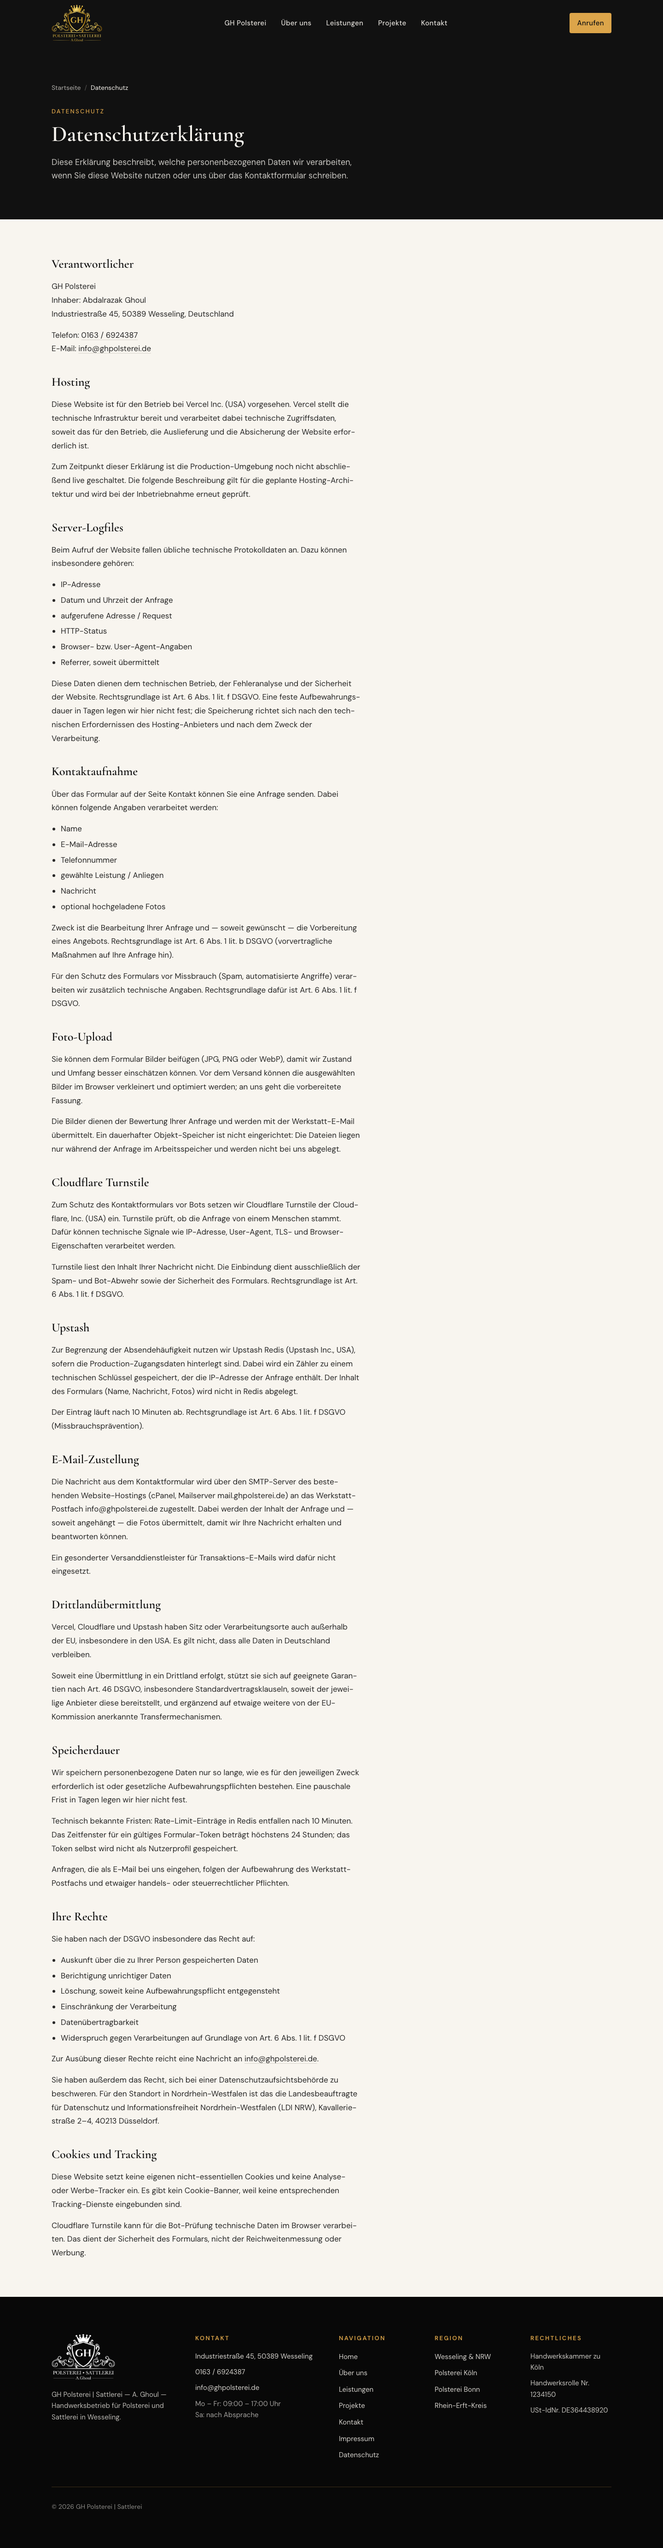
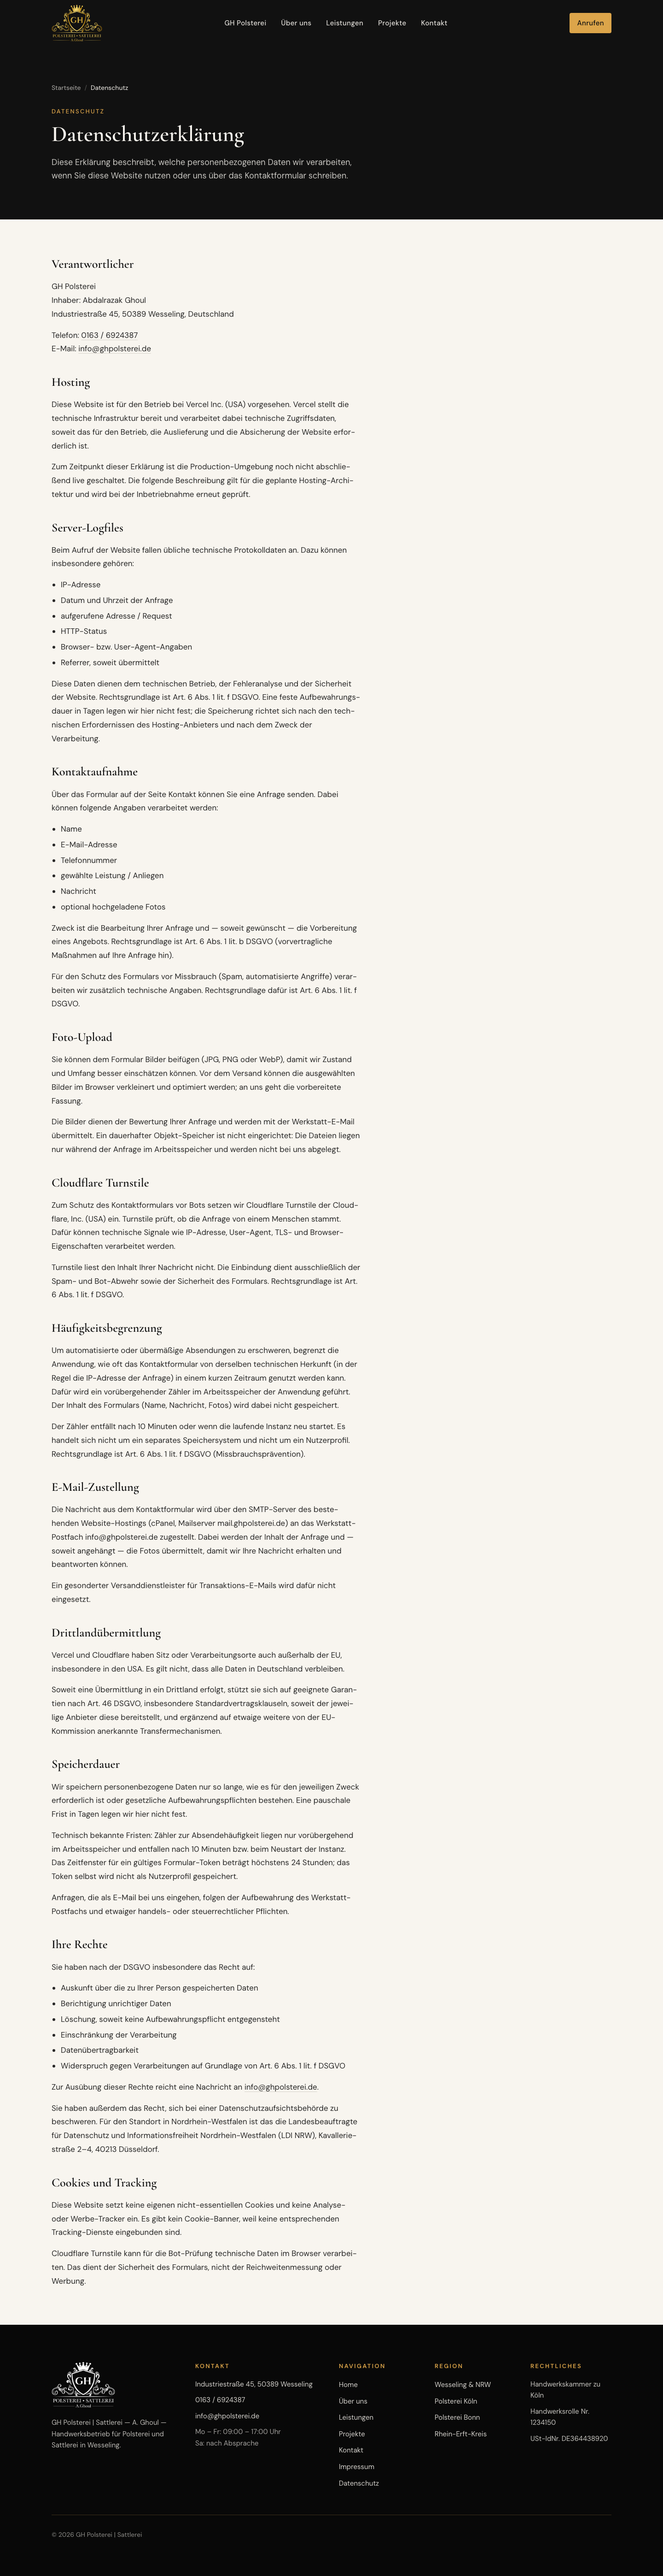
Remove Upstash dependency from contact rate limiting

diff --git a/src/app/datenschutz/page.tsx b/src/app/datenschutz/page.tsx
@@ -144,17 +144,20 @@ export default function DatenschutzPage() {
         </p>
       </LegalSection>
 
-      <LegalSection heading="Upstash">
+      <LegalSection heading="Häufigkeitsbegrenzung">
         <p>
-          Zur Begrenzung der Absendehäufigkeit nutzen wir Upstash Redis (Upstash
-          Inc., USA), sofern die Production-Zugangsdaten hinterlegt sind. Dabei
-          wird ein Zähler zu einem technischen Schlüssel gespeichert, der die
-          IP-Adresse der Anfrage enthält. Der Inhalt des Formulars (Name,
-          Nachricht, Fotos) wird nicht in Redis abgelegt.
+          Um automatisierte oder übermäßige Absendungen zu erschweren, begrenzt
+          die Anwendung, wie oft das Kontaktformular von derselben technischen
+          Herkunft (in der Regel die IP-Adresse der Anfrage) in einem kurzen
+          Zeitraum genutzt werden kann. Dafür wird ein vorübergehender Zähler im
+          Arbeitsspeicher der Anwendung geführt. Der Inhalt des Formulars (Name,
+          Nachricht, Fotos) wird dabei nicht gespeichert.
         </p>
         <p>
-          Der Eintrag läuft nach {rateLimitMinutes} Minuten ab. Rechtsgrundlage
-          ist Art. 6 Abs. 1 lit. f DSGVO (Missbrauchsprävention).
+          Der Zähler entfällt nach {rateLimitMinutes} Minuten oder wenn die
+          laufende Instanz neu startet. Es handelt sich nicht um ein separates
+          Speichersystem und nicht um ein Nutzerprofil. Rechtsgrundlage ist
+          Art. 6 Abs. 1 lit. f DSGVO (Missbrauchsprävention).
         </p>
       </LegalSection>
 
@@ -174,7 +177,7 @@ export default function DatenschutzPage() {
 
       <LegalSection heading="Drittlandübermittlung">
         <p>
-          Vercel, Cloudflare und Upstash haben Sitz oder Verarbeitungsorte auch
+          Vercel und Cloudflare haben Sitz oder Verarbeitungsorte auch
           außerhalb der EU, insbesondere in den USA. Es gilt nicht, dass alle
           Daten in Deutschland verbleiben.
         </p>
@@ -194,10 +197,12 @@ export default function DatenschutzPage() {
           bestehen. Eine pauschale Frist in Tagen legen wir hier nicht fest.
         </p>
         <p>
-          Technisch bekannte Fristen: Rate-Limit-Einträge in Redis entfallen nach{" "}
-          {rateLimitMinutes} Minuten. Das Zeitfenster für ein gültiges
-          Formular-Token beträgt höchstens {formTokenHours} Stunden; das Token
-          selbst wird nicht als Nutzerprofil gespeichert.
+          Technisch bekannte Fristen: Zähler zur Absendehäufigkeit liegen nur
+          vorübergehend im Arbeitsspeicher und entfallen nach{" "}
+          {rateLimitMinutes} Minuten bzw. beim Neustart der Instanz. Das
+          Zeitfenster für ein gültiges Formular-Token beträgt höchstens{" "}
+          {formTokenHours} Stunden; das Token selbst wird nicht als Nutzerprofil
+          gespeichert.
         </p>
         <p>
           Anfragen, die als E-Mail bei uns eingehen, folgen der Aufbewahrung des

diff --git a/src/lib/contact/rate-limit.ts b/src/lib/contact/rate-limit.ts
@@ -1,9 +1,9 @@
 import { CONTACT_LIMITS } from "@/lib/contact/constants";
-import { getUpstashConfig, isHostedDeploy } from "@/lib/contact/env";
+import { isHostedDeploy } from "@/lib/contact/env";
 
 type RateLimitResult = {
   allowed: boolean;
-  backend: "upstash" | "memory" | "unavailable";
+  backend: "memory";
 };
 
 type MemoryEntry = {
@@ -23,37 +23,6 @@ function maxAttempts(): number {
   return isHostedDeploy() ? CONTACT_LIMITS.rateLimitMax : CONTACT_LIMITS.rateLimitMaxDev;
 }
 
-async function upstashIncr(
-  url: string,
-  token: string,
-  key: string,
-  windowSec: number,
-): Promise<number | null> {
-  const response = await fetch(`${url}/pipeline`, {
-    method: "POST",
-    headers: {
-      Authorization: `Bearer ${token}`,
-      "Content-Type": "application/json",
-    },
-    body: JSON.stringify([["INCR", key]]),
-  });
-
-  if (!response.ok) return null;
-
-  const payload = (await response.json()) as { result?: unknown }[];
-  const incr = payload[0]?.result;
-  if (typeof incr !== "number") return null;
-
-  if (incr === 1) {
-    await fetch(`${url}/expire/${encodeURIComponent(key)}/${windowSec}`, {
-      method: "POST",
-      headers: { Authorization: `Bearer ${token}` },
-    });
-  }
-
-  return incr;
-}
-
 function memoryIncr(key: string, windowMs: number): number {
   const now = Date.now();
   pruneMemory(now);
@@ -66,37 +35,10 @@ function memoryIncr(key: string, windowMs: number): number {
   return existing.count;
 }
 
-export async function checkContactRateLimit(ip: string): Promise<RateLimitResult> {
+export function checkContactRateLimit(ip: string): RateLimitResult {
   const key = `contact-rl:${ip || "unknown"}`;
   const limit = maxAttempts();
   const windowMs = CONTACT_LIMITS.rateLimitWindowMs;
-  const upstash = getUpstashConfig();
-
-  if (upstash) {
-    try {
-      const count = await upstashIncr(
-        upstash.url,
-        upstash.token,
-        key,
-        Math.ceil(windowMs / 1000),
-      );
-      if (count === null) {
-        if (isHostedDeploy()) return { allowed: false, backend: "unavailable" };
-        const fallback = memoryIncr(key, windowMs);
-        return { allowed: fallback <= limit, backend: "memory" };
-      }
-      return { allowed: count <= limit, backend: "upstash" };
-    } catch {
-      if (isHostedDeploy()) return { allowed: false, backend: "unavailable" };
-      const fallback = memoryIncr(key, windowMs);
-      return { allowed: fallback <= limit, backend: "memory" };
-    }
-  }
-
-  if (isHostedDeploy()) {
-    return { allowed: false, backend: "unavailable" };
-  }
-
   const count = memoryIncr(key, windowMs);
   return { allowed: count <= limit, backend: "memory" };
 }

diff --git a/src/lib/contact/env.ts b/src/lib/contact/env.ts
@@ -21,13 +21,6 @@ export function getTurnstileSecret(): string | undefined {
   return key || undefined;
 }
 
-export function getUpstashConfig(): { url: string; token: string } | undefined {
-  const url = process.env.UPSTASH_REDIS_REST_URL?.trim();
-  const token = process.env.UPSTASH_REDIS_REST_TOKEN?.trim();
-  if (!url || !token) return undefined;
-  return { url, token };
-}
-
 export function getContactToEmail(fallback: string): string {
   return process.env.CONTACT_TO_EMAIL?.trim() || fallback;
 }

diff --git a/src/lib/contact/process.ts b/src/lib/contact/process.ts
@@ -78,11 +78,7 @@ export async function processContactForm(
   }
 
   const ip = getRequestIp(request);
-  const rate = await checkContactRateLimit(ip);
-  if (rate.backend === "unavailable") {
-    log503("RATE_LIMIT_UNAVAILABLE");
-    return { status: 503, body: unavailableFail() };
-  }
+  const rate = checkContactRateLimit(ip);
   if (!rate.allowed) {
     return { status: 429, body: rateLimitFail() };
   }

diff --git a/docs/contact-form-security.md b/docs/contact-form-security.md
@@ -26,7 +26,7 @@ rendered as HTML (plain-text mail only; header breaks stripped).
 | --- | --- | --- |
 | Honeypot `company_website` | Hidden from people. If filled, mail is **not** sent. | HTTP 200 `{ ok: true }` (silent) |
 | Time trap | Token issued at render. Reject if submitted in under 2.5s or older than 24h. HMAC-signed so clients cannot forge a delay. | Generic error |
-| Rate limit | IP-based. Hosted: 5 / 10 minutes via Upstash Redis. Local/dev: 30 / 10 minutes in memory. | Generic error (HTTP 429) |
+| Rate limit | IP-based. Hosted: 5 / 10 minutes. Local/dev: 30 / 10 minutes. In-process memory (`contact-rl:${ip}`). | Generic error (HTTP 429) |
 | Cloudflare Turnstile | `interaction-only` widget. Token verified at `https://challenges.cloudflare.com/turnstile/v0/siteverify`. Secret never sent to the client. | Generic error |
 | Payload limits | `Content-Length` over 22 MB rejected. Message max 4000 characters. | Generic / validation error |
 | Origin check | Optional `Origin` must match the site, localhost, or `VERCEL_URL`. | Generic error |
@@ -41,9 +41,9 @@ Security rejections do **not** name the layer that fired.
 
 ### Rate limit env behaviour
 
-- `UPSTASH_REDIS_REST_URL` + `UPSTASH_REDIS_REST_TOKEN` present: Redis INCR + EXPIRE.
-- Missing in local/dev: in-memory `Map` (single process only — not production-safe).
-- Missing on Vercel: fail closed. Memory is never treated as hosted production security.
+- Always in-process memory. No Redis or Upstash.
+- Hosted production uses the stricter 5 / 10 minutes cap. Local/dev uses 30 / 10 minutes.
+- Counters are per instance and reset when the instance restarts. They are not a shared store.
 
 ## Mail provider
 
@@ -111,8 +111,6 @@ SMTP_PASSWORD
 CONTACT_TO_EMAIL
 CONTACT_FROM_EMAIL
 CONTACT_FORM_SECRET
-UPSTASH_REDIS_REST_URL
-UPSTASH_REDIS_REST_TOKEN
 ```
 
 Optional: `CONTACT_ALLOWED_ORIGIN` if the public URL is not `https://ghpolsterei.de`.
@@ -121,12 +119,11 @@ Optional: `CONTACT_ALLOWED_ORIGIN` if the public URL is not `https://ghpolsterei
 
 - [ ] Cloudflare Turnstile widget created; site key + secret set; no classic CAPTCHA theme.
 - [ ] `CONTACT_FORM_SECRET` is a long random value (not the dev fallback).
-- [ ] Upstash Redis REST URL + token set (rate limit will not start without them).
 - [ ] SMTP host is `mail.ghpolsterei.de`; port 465 with `SMTP_SECURE=true`.
 - [ ] `CONTACT_FROM_EMAIL` and `CONTACT_TO_EMAIL` are the workshop mailbox.
 - [ ] `CONTACT_TO_EMAIL` delivers to `info@ghpolsterei.de` (or the inbox you choose).
 - [ ] Submit a real test from a phone and from desktop (including several photos).
 - [ ] Confirm honeypot/time-trap/Turnstile failures do not send mail.
 - [ ] `/datenschutz` page exists before launch (the form already links there).
-- [ ] Do not deploy with missing Turnstile/Redis/SMTP and expect the form
+- [ ] Do not deploy with missing Turnstile/SMTP and expect the form
       to “just work” — hosted deploys fail closed on purpose.

diff --git a/docs/privacy-tech-audit.md b/docs/privacy-tech-audit.md
@@ -36,12 +36,12 @@ Documented for privacy copy; not trackers:
 | Processor | Role in code | Data actually sent |
 | --- | --- | --- |
 | **Cloudflare Turnstile** | `siteverify` with token and optional `remoteip`. | Challenge token, IP if known. Not the form message. |
-| **Upstash Redis** | Rate limit key `contact-rl:${ip}` with INCR + EXPIRE. TTL **10 minutes**. | IP (or `"unknown"`) and a counter. Form body is not stored. |
+| **Application memory** | Rate limit key `contact-rl:${ip}` with an in-process counter. Window **10 minutes**. | IP (or `"unknown"`) and a counter. Form body is not stored. Lost on instance restart. |
 | **cPanel SMTP** | Nodemailer to `SMTP_HOST` when host, port, secure flag, user, password, from- and to-address are set. | Name, email, phone, service, message, timestamp; processed photos attached (client-optimized, ≤ 3.5 MB total). |
 | **Vercel** | Planned production host. Request logs / platform telemetry as provided by Vercel. | Typical HTTP metadata (IP, URL, user-agent, timestamp). Retention is not hard-coded in this repo. |
 | **Workshop mailbox** | Default `CONTACT_TO_EMAIL` is `info@ghpolsterei.de` on the cPanel mail host. | Mailbox of the workshop after SMTP delivery. |
 
-Local/dev without Upstash/SMTP/Turnstile keys uses in-memory rate limiting, console mail, and Turnstile bypass. Hosted Vercel production fails closed without those credentials.
+Local/dev without SMTP/Turnstile keys uses console mail and Turnstile bypass. Hosted Vercel production fails closed without those credentials. Rate limiting uses in-process memory in all environments.
 
 ## Cookies
 

diff --git a/docs/legal-review-required.md b/docs/legal-review-required.md
@@ -13,7 +13,7 @@ This list is only what the business owner or a legal advisor should confirm befo
 
 - [ ] Endgültige juristische Freigabe der Datenschutzerklärung.
 - [ ] Hosting: Production-Ziel ist **Vercel**. Nach dem ersten Live-Deploy Region, Account und tatsächliche Log-Praxis erneut gegen den Text prüfen.
-- [ ] **Auftragsverarbeitung / DPA** in den Konten von Vercel, Cloudflare und Upstash abschließen bzw. bestätigen.
+- [ ] **Auftragsverarbeitung / DPA** in den Konten von Vercel und Cloudflare abschließen bzw. bestätigen.
 - [ ] Standardvertragsklauseln / EU-US-Transfer der jeweiligen Anbieter im Account nachweisen.
 - [ ] Postfach ist `info@ghpolsterei.de` (cPanel-Hosting) — andernfalls Empfänger und Datenschutztext anpassen.
 - [ ] Speicherung von Anfrage-E-Mails und etwaigen Anhängen: internes Verfahren festlegen (keine pauschalen 30/90/365-Tage-Fristen im Code).
@@ -22,7 +22,6 @@ This list is only what the business owner or a legal advisor should confirm befo
 ## Technik, die die Texte voraussetzen
 
 - [ ] Cloudflare Turnstile Site Key + Secret in Production.
-- [ ] Upstash Redis REST nur für Rate Limiting (kein Speichern von Formulardaten).
 - [ ] SMTP (`mail.ghpolsterei.de`, Port 465) und `CONTACT_FROM_EMAIL` / `CONTACT_TO_EMAIL` in Production gesetzt.
 - [ ] Kein zusätzlicher Tracker, kein Cookie-Banner, solange der Stand in `docs/privacy-tech-audit.md` gilt.
 

diff --git a/docs/technical-seo-final.md b/docs/technical-seo-final.md
@@ -98,6 +98,6 @@ Applied in `next.config.ts` to `/:path*`:
 ## Remaining production requirements
 
 - Set Vercel env vars from `.env.example` / `docs/contact-form-security.md`.
-- Confirm Turnstile, cPanel SMTP, and Upstash Redis on the live project.
+- Confirm Turnstile and cPanel SMTP on the live project.
 - Re-check Datenschutz hosting wording after the first Vercel deploy.
 - DNS and go-live are out of scope for this change set.

diff --git a/docs/pre-deploy-readiness.md b/docs/pre-deploy-readiness.md
@@ -18,8 +18,6 @@ SMTP_PASSWORD
 CONTACT_TO_EMAIL
 CONTACT_FROM_EMAIL
 CONTACT_FORM_SECRET         # long random value, not the local fallback
-UPSTASH_REDIS_REST_URL
-UPSTASH_REDIS_REST_TOKEN
 ```
 
 Optional: `CONTACT_ALLOWED_ORIGIN` if the public origin is not `https://ghpolsterei.de`.
